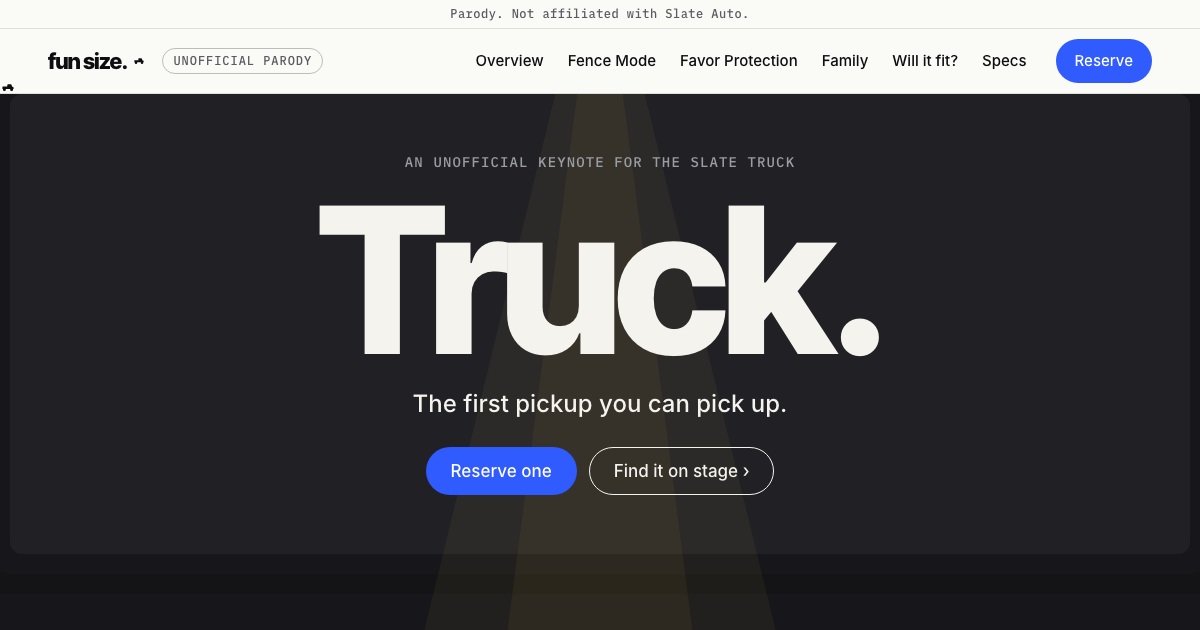
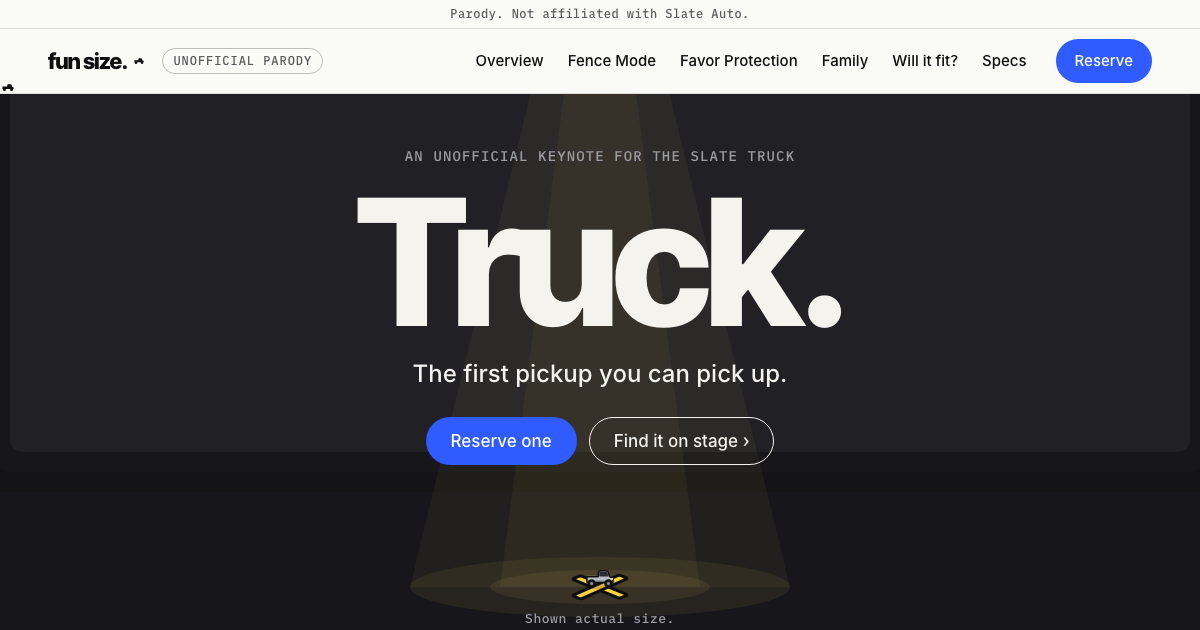
Update the page

diff --git a/index.html b/index.html
@@ -661,10 +661,35 @@ html.js .scroll-track .scroll-track__truck{left:2px;transform:translateX(calc(va
 /* the first screen holds the whole stage: subtract the parody line (and the header's 1px rule) too, so the
    "[reverent silence]" cue is no longer cut by the fold (the stage is laid out from the hero's middle) */
 #hero{min-height:max(calc(100svh - var(--nav-h) - var(--parody-h,30px)),720px)}
-/* balanced eyebrow: no lone "TRUCK" on its own line at phone width */
-#hero .eyebrow{text-wrap:balance}
-/* zoomed on 341-380px phones: the 1,600% buttons wrap to 2 rows, so the caption pill drops its tracking (and goes
-   to 12px under 360px) to stay on one line; its top then clears the buttons by about 25px instead of 7px
+/* short laptop screens (1366x768, 1280x720, 1024x768, down to about 700px tall): the hero follows the screen
+   down to 600px instead of stopping at 720px, so the cue and both caption lines sit above the fold. Against the
+   720px layout the copy moves down .35 x the squeeze (--hero-s) and the stage, truck and caption lines rise .35 x
+   it; those move as one (zoomed too), so the zoom pills stay beside the truck. The headline is capped at 28% of the
+   screen height so it never crowds the eyebrow. Screens 814px tall and up (1440x900) get --hero-s 0: unchanged.
+   Phones and tablets (860px and narrower, where the zoom pills sit under the buttons) keep the 720px floor. */
+@media (min-width:861px){
+  #hero{--hero-s:clamp(0px,720px - (100svh - var(--nav-h) - var(--parody-h,30px)),120px);
+    min-height:max(calc(100svh - var(--nav-h) - var(--parody-h,30px)),600px)}
+  #hero .hero-copy{translate:0 calc(.35 * var(--hero-s))}
+  #hero .hero-stage,#hero .hero-caption,#hero .hero-under{translate:0 calc(-.35 * var(--hero-s))}
+  #hero .hero-title{font-size:clamp(56px,min(17vw,28svh),240px)}
+}
+/* balanced eyebrow and subline: no lone "TRUCK" or "up." on its own line at phone width */
+#hero .eyebrow,#hero .hero-sub{text-wrap:balance}
+/* zoomed: the cue gets the same dark pill as the caption lines, so it stays readable where the giant X's lower
+   arm runs under it (1,600% on 320-360px phones) */
+#hero.is-zoomed .hero-cue{padding:2px 8px;margin-right:-8px;border-radius:10px;background:var(--stage)}
+/* zoomed on 360px phones and narrower: both buttons stay on one row (smaller type and padding). At 1,600% (and
+   at 400% under 341px) they wrapped to 2 rows and left the caption pill about 7px under them. */
+@media (max-width:360px){
+  #hero.is-zoomed .btn-row{column-gap:8px}
+  #hero.is-zoomed .btn-row .btn{padding:0 12px;font-size:14px}
+}
+@media (max-width:340px){
+  #hero.is-zoomed .btn-row .btn{padding:0 10px;font-size:13px}
+}
+/* zoomed on 361-380px phones the 1,600% buttons still wrap to 2 rows, so the caption pill drops its tracking to
+   stay on one line; its top then clears the buttons by about 25px. On 341-359px it also goes to 12px
    (340px and narrower keep style-ui's 12px rule) */
 @media (min-width:341px) and (max-width:380px){
   #hero.is-zoomed .hero-caption{letter-spacing:0;padding:4px 8px}
@@ -773,6 +798,11 @@ html.js .scroll-track .scroll-track__truck{left:2px;transform:translateX(calc(va
   #will-it-fit .meter{margin-inline:-12px}
   #will-it-fit .meter-stops li{padding:0;display:flex;flex-direction:column;align-items:center}
 }
+
+/* ---------- testimonials ---------- */
+/* Instrument Serif italic draws a 1 like an l (the time read "ll:40"), so the time is set upright in the sans face,
+   a step smaller to sit at the serif's figure height */
+#testimonials .quote .q-time{font-family:var(--font-body);font-style:normal;font-weight:400;font-size:.8em;letter-spacing:-.01em}
 
 /* Layout lane r3: faq, thank-you, one-more-thing, no-room, final-cta, footnotes, footer.
    Layout polish only; animation CSS and the will-it-fit widget live elsewhere. */
@@ -1360,8 +1390,9 @@ html header.site-header .nav-pill{font-size:12px}
 <path class="f-grass ol" d="M76 760H1524Q1540 760 1540 776V790Q1540 806 1524 806H76Q60 806 60 790V776Q60 760 76 760Z"/>
 <path class="f-grass-dark" d="M130 762l5-15l4 11l5-13l3 17ZM582 762l5-14l4 10l5-12l3 16ZM1086 762l5-15l4 11l5-13l3 17ZM1452 762l5-14l4 10l5-12l3 16ZM196 762l4-11l4 8l4-10l2 13Z"/>
 
-<!-- the route. The truck rides it by its ground-center: from the grass behind the near mound,
-     up to the apex (700,471.33) where it is drawn, over the fence, straight down behind the far mound -->
+<!-- the route: the whole plan, over the fence and down to the far mound. With motion on, the truck rides its
+     first half by its ground-center, from the grass behind the near mound up to the apex (700,471.33), where it
+     is drawn, and stays there -->
 <path data-anim="arc" class="ln dots" style="--line-w:4px" d="M420 760C430 560 560 471.33 700 471.33C1050 471.33 1190 471.33 1190 760"/>
 <!-- arrowhead at the landing, so the direction reads without the step labels (they move below on phones) -->
 <path class="f-ink ol" d="M1189.6 703L1173.4 677.6L1200.2 674.8Z"/>
@@ -1409,7 +1440,7 @@ html header.site-header .nav-pill{font-size:12px}
 </g>
 <use href="#dirt" x="240" y="656" width="260" height="104"/>
 
-<!-- far side: flag, the new mound, puff (all drawn over the truck so the set-down tucks behind them) -->
+<!-- far side: flag, the new mound and the puff, drawn as the plan's last step (the truck stays at the apex) -->
 <g data-anim="flag">
   <path class="ln" d="M1290 702V550"/>
   <path class="f-green ol" d="M1292 552L1360 568L1292 584Z"/>
@@ -2008,7 +2039,7 @@ html header.site-header .nav-pill{font-size:12px}
     <ul class="quotes">
 <li class="quote-card"><figure><svg class="avatar" viewBox="0 0 64 64" width="56" height="56" aria-hidden="true" focusable="false" style="--line-w:2px"><circle class="f-cloth1" cx="32" cy="32" r="32" opacity=".3"/><path class="f-cloth1 ol" d="M9.6 52C12 42 21 39 32 39s20 3 22.4 13A30 30 0 0 1 9.6 52z"/><circle class="f-head ol" cx="32" cy="25" r="10"/></svg><blockquote class="quote"><p>My buddy texted, “Can I borrow your truck to grab a couch?” I sent him a picture of the truck. He sent back “oh.” That was in March.</p></blockquote><figcaption class="persona">Former designated mover, now retired</figcaption></figure></li>
 <li class="quote-card"><figure><svg class="avatar" viewBox="0 0 64 64" width="56" height="56" aria-hidden="true" focusable="false" style="--line-w:2px"><circle class="f-cloth2" cx="32" cy="32" r="32" opacity=".3"/><path class="f-cloth2 ol" d="M9.6 52C12 42 21 39 32 39s20 3 22.4 13A30 30 0 0 1 9.6 52z"/><circle class="f-head ol" cx="32" cy="25" r="10"/></svg><blockquote class="quote"><p>Moved the whole dirt pile to the other side of the yard. Got to the fence, picked the truck up, set it down, kept going. The fence never stood a chance.</p></blockquote><figcaption class="persona">Homeowner, fence-adjacent</figcaption></figure></li>
-<li class="quote-card"><figure><svg class="avatar" viewBox="0 0 64 64" width="56" height="56" aria-hidden="true" focusable="false" style="--line-w:2px"><circle class="f-cloth3" cx="32" cy="32" r="32" opacity=".3"/><path class="f-cloth3 ol" d="M9.6 52C12 42 21 39 32 39s20 3 22.4 13A30 30 0 0 1 9.6 52z"/><circle class="f-head ol" cx="32" cy="25" r="10"/></svg><blockquote class="quote"><p>My in-laws landed at 11:40&nbsp;p.m. There were two of them. They knew. I was asleep.</p></blockquote><figcaption class="persona">Formerly the family airport shuttle</figcaption></figure></li>
+<li class="quote-card"><figure><svg class="avatar" viewBox="0 0 64 64" width="56" height="56" aria-hidden="true" focusable="false" style="--line-w:2px"><circle class="f-cloth3" cx="32" cy="32" r="32" opacity=".3"/><path class="f-cloth3 ol" d="M9.6 52C12 42 21 39 32 39s20 3 22.4 13A30 30 0 0 1 9.6 52z"/><circle class="f-head ol" cx="32" cy="25" r="10"/></svg><blockquote class="quote"><p>My in-laws landed at <span class="q-time">11:40&nbsp;p.m.</span> There were two of them. They knew. I was asleep.</p></blockquote><figcaption class="persona">Formerly the family airport shuttle</figcaption></figure></li>
 <li class="quote-card"><figure><svg class="avatar" viewBox="0 0 64 64" width="56" height="56" aria-hidden="true" focusable="false" style="--line-w:2px"><circle class="f-cloth4" cx="32" cy="32" r="32" opacity=".3"/><path class="f-cloth4 ol" d="M9.6 52C12 42 21 39 32 39s20 3 22.4 13A30 30 0 0 1 9.6 52z"/><circle class="f-head ol" cx="32" cy="25" r="10"/></svg><blockquote class="quote"><p>I read the fine print. I ride with Grandma now.</p></blockquote><figcaption class="persona">Kid #2 · real seat, real seatbelt</figcaption></figure></li>
     </ul>
     <p class="fine">Owners are fictional. The relief is real.</p>
@@ -2303,18 +2334,6 @@ html header.site-header .nav-pill{font-size:12px}
     return a;
   }
 
-  /* A label pop that keeps the element's own CSS transform (art.css centers labels with translate). */
-  function pop(el, opts, from) {
-    if (!el || !motion()) return null;
-    var base = win.getComputedStyle(el).transform;
-    base = (!base || base === 'none') ? '' : base + ' ';
-    return play(el, [
-      { transform: base + 'scale(' + (from || 0.6) + ')', opacity: 0 },
-      { transform: base + 'scale(1.06)', opacity: 1, offset: 0.7 },
-      { transform: base + 'scale(1)', opacity: 1 }
-    ], assign({ duration: 380, easing: 'ease-out' }, opts));
-  }
-
   /* Run fn once, the first time el is meaningfully on screen. Off-screen scenes do no work. */
   var steps20 = [];
   for (var s20 = 0; s20 <= 20; s20++) steps20.push(s20 / 20);
@@ -2514,14 +2533,16 @@ html header.site-header .nav-pill{font-size:12px}
     }, { ratio: 0.4 });
   }
 
-  /* ---------- fence-mode: lift along the dotted arc, set-down, 3-dot puff, Delivered. flag ---------- */
+  /* ---------- fence-mode: up the dotted arc from the near pile, over the fence, and it stays up there ----------
+     The drawing is the end state: the truck held overhead at the top of the arc. The motion starts the truck on
+     the near side behind the dirt, lifts it along the arc and stops at the apex with one small knees-and-truck
+     settle. There is no set-down, so the flag, puff and labels the drawing shows simply stay put. */
   function fence() {
     var sec = qs('#fence-mode');
     var fig = sec && qs('[data-art="fence-lift"]', sec);
     if (!fig) return;
     var arc = qs('[data-anim="arc"]', fig), truck = qs('[data-anim="truck"]', fig);
-    var lifter = qs('[data-anim="lifter"]', fig), puff = qs('[data-anim="puff"]', fig);
-    var flag = qs('[data-anim="flag"]', fig), label = qs('[data-anim="flag-label"]', fig);
+    var lifter = qs('[data-anim="lifter"]', fig);
     var btn = qs('[data-replay="fence-lift"]', sec), cap = qs('[data-anim="replay-caption"]', sec);
     if (!arc || !truck || typeof arc.getPointAtLength !== 'function') return;
     var REST_X = 700, REST_Y = 471.33; // the truck's ground-center in the at-rest (apex) drawing
@@ -2529,12 +2550,21 @@ html header.site-header .nav-pill{font-size:12px}
       var p = arc.getPointAtLength(s);
       return 'translate(' + r(p.x - REST_X) + 'px,' + r(p.y - REST_Y) + 'px)';
     };
-    var path = null;
+    // A = the arc length at the apex. x only grows along the route, so halve toward the drawing's x.
+    var A = 0, path = null;
+    var apex = function () {
+      if (A) return A;
+      var lo = 0, hi = arc.getTotalLength();
+      for (var j = 0; j < 32; j++) { var mid = (lo + hi) / 2; if (arc.getPointAtLength(mid).x < REST_X) lo = mid; else hi = mid; }
+      A = hi;
+      return A;
+    };
     var pathFrames = function () {
       if (path) return path;
-      var L = arc.getTotalLength(), n = 60;
+      var n = 40;
       path = [];
-      for (var i = 0; i <= n; i++) path.push({ transform: at(L * i / n), offset: i / n });
+      for (var i = 0; i < n; i++) path.push({ transform: at(apex() * i / n), offset: i / n });
+      path.push({ transform: 'translate(0px,0px)', offset: 1 }); // the last frame is the drawing itself
       return path;
     };
     var anims = [], played = false, stepTimer = 0;
@@ -2545,47 +2575,31 @@ html header.site-header .nav-pill{font-size:12px}
       win.clearTimeout(stepTimer);
       truck.style.transform = '';
       var add = function (a) { if (a) anims.push(a); };
-      var T0 = 300 * k, LIFT = 1600 * k, DOWN = T0 + LIFT;
-      add(play(truck, pathFrames(), { duration: LIFT, delay: T0, easing: 'cubic-bezier(.45,.05,.35,1)', fill: 'both' }));
-      add(play(truck, [{ opacity: 0 }, { opacity: 1 }], { duration: 220 * k, easing: 'linear' }));
-      var dip = [{ transform: 'none' }, { transform: 'translate(0,9px)', offset: 0.5 }, { transform: 'none' }];
-      add(play(lifter, dip, { duration: 420 * k, delay: Math.max(0, T0 - 160 * k), easing: 'ease-in-out', fill: 'none' }));
-      add(play(lifter, dip, { duration: 420 * k, delay: DOWN - 260 * k, easing: 'ease-in-out', fill: 'none' }));
-      // the two spill clods fall off the tailgate on the way up (drawn mid-fall at the apex) and are gone by the set-down
-      qsa('[data-anim="spill"]', truck).forEach(function (c) {
+      var T0 = 300 * k, LIFT = 1600 * k, TOP = T0 + LIFT; // deck.json: a 1.6s lift along the dotted arc
+      // fill backwards: the near-side start holds until the lift begins; when it ends, the drawing takes over
+      add(play(truck, pathFrames(), { duration: LIFT, delay: T0, easing: 'cubic-bezier(.45,.05,.35,1)' }));
+      // knees bend to pick it up, then once more as it arrives overhead, and the truck settles with the palms.
+      // fill none, so a dip waiting for its turn never holds the truck or the lifter still.
+      var dip = function (d) { return [{ transform: 'none' }, { transform: 'translate(0,' + d + 'px)', offset: 0.45 }, { transform: 'none' }]; };
+      add(play(lifter, dip(9), { duration: 420 * k, delay: Math.max(0, T0 - 160 * k), easing: 'ease-in-out', fill: 'none' }));
+      add(play(lifter, dip(6), { duration: 380 * k, delay: TOP, easing: 'ease-in-out', fill: 'none' }));
+      add(play(truck, dip(6), { duration: 380 * k, delay: TOP, easing: 'ease-in-out', fill: 'none' }));
+      // the two spill clods tip off the tailgate on the way up and fall to where the drawing has them, mid-fall
+      qsa('[data-anim="spill"]', truck).forEach(function (c, i) {
+        var from = i ? 'translate(10px,-38px)' : 'translate(4px,-14px)', go = i ? 0.5 : 0.7;
         add(play(c, [
-          { opacity: 0, transform: 'translate(4px,-10px)' },
-          { opacity: 0, transform: 'translate(4px,-10px)', offset: 0.3 },
-          { opacity: 1, transform: 'none', offset: 0.45 },
-          { opacity: 1, transform: 'translate(-2px,8px)', offset: 0.62 },
-          { opacity: 0, transform: 'translate(-6px,34px)', offset: 0.85 },
-          { opacity: 0, transform: 'translate(-6px,34px)' }
-        ], { duration: LIFT, delay: T0, easing: 'linear', fill: 'both' }));
+          { opacity: 0, transform: from },
+          { opacity: 0, transform: from, offset: go },
+          { opacity: 1, transform: from, offset: go + 0.06, easing: 'cubic-bezier(.55,0,1,.45)' },
+          { opacity: 1, transform: 'none' }
+        ], { duration: LIFT, delay: T0, easing: 'linear' }));
       });
-      qsa('circle', puff).forEach(function (c, i) {
-        boxOrigin(c);
-        add(play(c, [
-          { transform: 'translate(8px,7px) scale(0)' },
-          { transform: 'translate(-1px,-1px) scale(1.2)', offset: 0.65 },
-          { transform: 'none' }
-        ], { duration: 380 * k, delay: DOWN + 40 * k + i * 110 * k, easing: 'ease-out' }));
-      });
-      if (flag) {
-        svgOrigin(flag, 1290, 702); // the pole's foot, so it pops up out of the mound
-        add(play(flag, [
-          { transform: 'scaleY(0)' },
-          { transform: 'scaleY(1.12)', offset: 0.6 },
-          { transform: 'scaleY(.96)', offset: 0.82 },
-          { transform: 'none' }
-        ], { duration: 520 * k, delay: DOWN + 420 * k, easing: 'ease-out' }));
-      }
-      add(pop(label, { delay: DOWN + 680 * k, duration: 380 * k }));
-      if (replay && cap) add(play(cap, [{ opacity: 0 }, { opacity: 1 }], { duration: 450 * k, delay: DOWN + 950 * k, easing: 'ease-out' }));
+      if (replay && cap) add(play(cap, [{ opacity: 0 }, { opacity: 1 }], { duration: 450 * k, delay: TOP + 400 * k, easing: 'ease-out' }));
     };
-    // Reduced motion: the replay shows three stills (load, lift, delivered) with no tween between them.
+    // Reduced motion: the replay shows three stills (loaded, halfway up, overhead) with no tween between them,
+    // and ends on the drawing.
     var stills = function () {
-      var L = arc.getTotalLength();
-      var shots = [at(0), 'none', at(L)];
+      var shots = [at(0), at(apex() / 2), ''];
       var i = 0;
       win.clearTimeout(stepTimer);
       (function next() {
